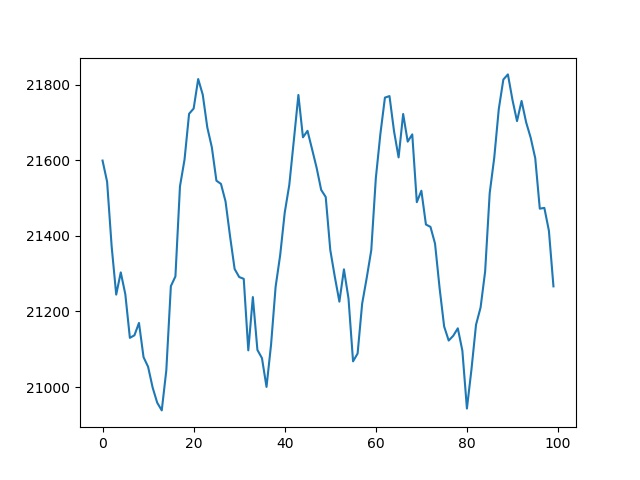
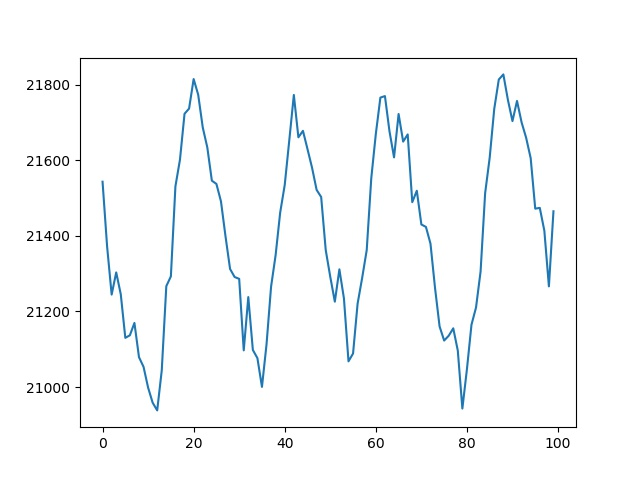
'auto'

Changed region(s): [[0.1562, 0.1562, 0.8438, 0.875], [0.8438, 0.4375, 0.875, 0.5938]]

diff --git a/README.md b/README.md
@@ -1,5 +1,5 @@
 Frizider live: 5
-21266.508333333335 
+21465.333333333332 
 0
 Temperatura:
 
